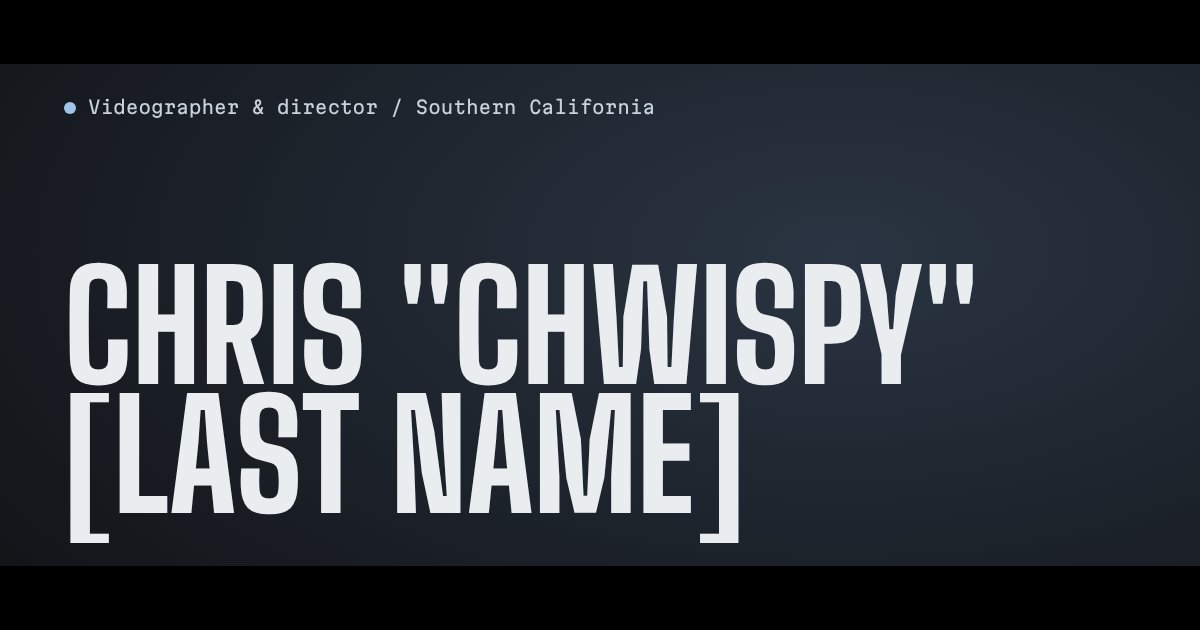
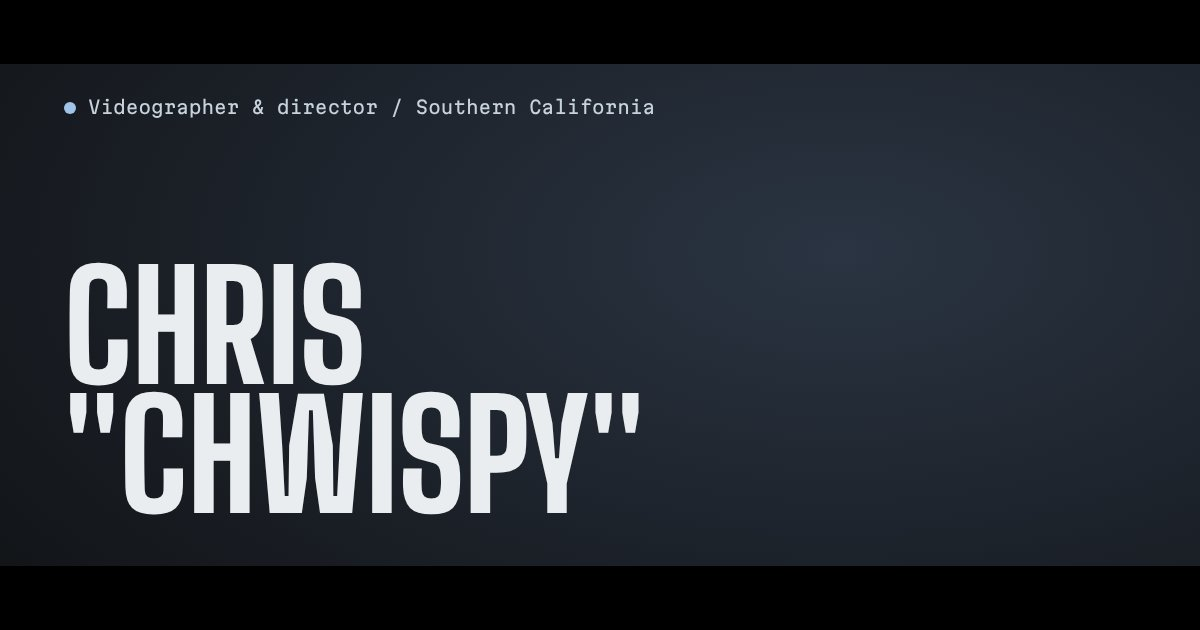
Drop the last-name placeholder from the wordmark and titles
The site now goes by Chris "Chwispy" everywhere: header and footer
wordmark, page titles, Open Graph tags, schema, copyright line and the
share image.

Claude-Session: https://claude.ai/code/session_01NEMUHEaAH6juJch6josBu8

Changed region(s): [[0.0308, 0.3921, 0.8325, 0.8746]]

diff --git a/index.html b/index.html
@@ -4,14 +4,14 @@
   <meta charset="utf-8">
   <meta name="viewport" content="width=device-width, initial-scale=1">
   <!-- SEO: swap [CITY] and [DOMAIN] everywhere (see README) -->
-  <title>Chris "Chwispy" [Last Name] | Videographer &amp; Director in [CITY], Southern California</title>
+  <title>Chris "Chwispy" | Videographer &amp; Director in [CITY], Southern California</title>
   <meta name="description" content="Commercials, brand films, event coverage and social content for brands across Southern California. Shot, edited and designed by one director. Book a call.">
   <link rel="canonical" href="https://[DOMAIN]/">
   <meta name="theme-color" content="#111316">
 
   <meta property="og:type" content="website">
-  <meta property="og:site_name" content="Chris &quot;Chwispy&quot; [Last Name]">
-  <meta property="og:title" content="Chris &quot;Chwispy&quot; [Last Name] | Videographer &amp; Director">
+  <meta property="og:site_name" content="Chris &quot;Chwispy&quot;">
+  <meta property="og:title" content="Chris &quot;Chwispy&quot; | Videographer &amp; Director">
   <meta property="og:description" content="Commercials, brand films, events and social content that make people stop scrolling.">
   <meta property="og:url" content="https://[DOMAIN]/">
   <meta property="og:image" content="https://[DOMAIN]/assets/img/og-image.jpg">
@@ -29,7 +29,7 @@
   {
     "@context": "https://schema.org",
     "@type": "ProfessionalService",
-    "name": "Chris \"Chwispy\" [Last Name]",
+    "name": "Chris \"Chwispy\"",
     "description": "Videographer and director making commercials, brand films, event coverage and social content.",
     "url": "https://[DOMAIN]/",
     "image": "https://[DOMAIN]/assets/img/og-image.jpg",
@@ -47,7 +47,7 @@
   <!-- ===== HEADER (same on every page; update aria-current per page) ===== -->
   <header class="site-header">
     <div class="wrap">
-      <a class="wordmark" href="index.html"><span class="wm-line">Chris <em>&ldquo;Chwispy&rdquo;</em></span> <span class="wm-line">[Last Name]</span></a>
+      <a class="wordmark" href="index.html">Chris <em>&ldquo;Chwispy&rdquo;</em></a>
       <nav aria-label="Main">
         <ul class="nav-links">
           <li><a href="work.html">Work</a></li>
@@ -317,7 +317,7 @@
   <footer class="site-footer">
     <div class="wrap">
       <div>
-        <a class="wordmark" href="index.html"><span class="wm-line">Chris <em>&ldquo;Chwispy&rdquo;</em></span> <span class="wm-line">[Last Name]</span></a>
+        <a class="wordmark" href="index.html">Chris <em>&ldquo;Chwispy&rdquo;</em></a>
         <p class="mono" style="margin-top:.75rem">Videographer and director in [CITY], Southern California</p>
       </div>
       <nav aria-label="Footer">
@@ -329,7 +329,7 @@
           <li><a href="https://www.instagram.com/staychwispy/" rel="me noopener" target="_blank">Instagram</a></li>
         </ul>
       </nav>
-      <p class="mono">&copy; <span data-year>2026</span> Chris [Last Name]</p>
+      <p class="mono">&copy; <span data-year>2026</span> Chris &ldquo;Chwispy&rdquo;</p>
     </div>
   </footer>
 

diff --git a/services.html b/services.html
@@ -3,14 +3,14 @@
 <head>
   <meta charset="utf-8">
   <meta name="viewport" content="width=device-width, initial-scale=1">
-  <title>Services &amp; Pricing | Chris &quot;Chwispy&quot; [Last Name], Videographer in [CITY]</title>
+  <title>Services &amp; Pricing | Chris &quot;Chwispy&quot;, Videographer in [CITY]</title>
   <meta name="description" content="Social content packs, commercials, brand films and event coverage with clear starting prices. Serving [CITY] and all of Southern California.">
   <link rel="canonical" href="https://[DOMAIN]/services.html">
   <meta name="theme-color" content="#111316">
 
   <meta property="og:type" content="website">
-  <meta property="og:site_name" content="Chris &quot;Chwispy&quot; [Last Name]">
-  <meta property="og:title" content="Services &amp; Pricing | Chris &quot;Chwispy&quot; [Last Name], Videographer in [CITY]">
+  <meta property="og:site_name" content="Chris &quot;Chwispy&quot;">
+  <meta property="og:title" content="Services &amp; Pricing | Chris &quot;Chwispy&quot;, Videographer in [CITY]">
   <meta property="og:description" content="Social content packs, commercials, brand films and event coverage with clear starting prices. Serving [CITY] and all of Southern California.">
   <meta property="og:url" content="https://[DOMAIN]/services.html">
   <meta property="og:image" content="https://[DOMAIN]/assets/img/og-image.jpg">
@@ -29,7 +29,7 @@
   <!-- ===== HEADER (same on every page; update aria-current per page) ===== -->
   <header class="site-header">
     <div class="wrap">
-      <a class="wordmark" href="index.html"><span class="wm-line">Chris <em>&ldquo;Chwispy&rdquo;</em></span> <span class="wm-line">[Last Name]</span></a>
+      <a class="wordmark" href="index.html">Chris <em>&ldquo;Chwispy&rdquo;</em></a>
       <nav aria-label="Main">
         <ul class="nav-links">
           <li><a href="work.html">Work</a></li>
@@ -227,7 +227,7 @@
   <footer class="site-footer">
     <div class="wrap">
       <div>
-        <a class="wordmark" href="index.html"><span class="wm-line">Chris <em>&ldquo;Chwispy&rdquo;</em></span> <span class="wm-line">[Last Name]</span></a>
+        <a class="wordmark" href="index.html">Chris <em>&ldquo;Chwispy&rdquo;</em></a>
         <p class="mono" style="margin-top:.75rem">Videographer and director in [CITY], Southern California</p>
       </div>
       <nav aria-label="Footer">
@@ -239,7 +239,7 @@
           <li><a href="https://www.instagram.com/staychwispy/" rel="me noopener" target="_blank">Instagram</a></li>
         </ul>
       </nav>
-      <p class="mono">&copy; <span data-year>2026</span> Chris [Last Name]</p>
+      <p class="mono">&copy; <span data-year>2026</span> Chris &ldquo;Chwispy&rdquo;</p>
     </div>
   </footer>
 

diff --git a/about.html b/about.html
@@ -3,14 +3,14 @@
 <head>
   <meta charset="utf-8">
   <meta name="viewport" content="width=device-width, initial-scale=1">
-  <title>About | Chris &quot;Chwispy&quot; [Last Name], Videographer &amp; Director</title>
+  <title>About | Chris &quot;Chwispy&quot;, Videographer &amp; Director</title>
   <meta name="description" content="Videographer, director and designer in [CITY]. In-house content lead, brand founder and former martial arts instructor who directs people well on camera.">
   <link rel="canonical" href="https://[DOMAIN]/about.html">
   <meta name="theme-color" content="#111316">
 
   <meta property="og:type" content="website">
-  <meta property="og:site_name" content="Chris &quot;Chwispy&quot; [Last Name]">
-  <meta property="og:title" content="About | Chris &quot;Chwispy&quot; [Last Name], Videographer &amp; Director">
+  <meta property="og:site_name" content="Chris &quot;Chwispy&quot;">
+  <meta property="og:title" content="About | Chris &quot;Chwispy&quot;, Videographer &amp; Director">
   <meta property="og:description" content="Videographer, director and designer in [CITY]. In-house content lead, brand founder and former martial arts instructor who directs people well on camera.">
   <meta property="og:url" content="https://[DOMAIN]/about.html">
   <meta property="og:image" content="https://[DOMAIN]/assets/img/og-image.jpg">
@@ -29,7 +29,7 @@
   <!-- ===== HEADER (same on every page; update aria-current per page) ===== -->
   <header class="site-header">
     <div class="wrap">
-      <a class="wordmark" href="index.html"><span class="wm-line">Chris <em>&ldquo;Chwispy&rdquo;</em></span> <span class="wm-line">[Last Name]</span></a>
+      <a class="wordmark" href="index.html">Chris <em>&ldquo;Chwispy&rdquo;</em></a>
       <nav aria-label="Main">
         <ul class="nav-links">
           <li><a href="work.html">Work</a></li>
@@ -140,7 +140,7 @@
   <footer class="site-footer">
     <div class="wrap">
       <div>
-        <a class="wordmark" href="index.html"><span class="wm-line">Chris <em>&ldquo;Chwispy&rdquo;</em></span> <span class="wm-line">[Last Name]</span></a>
+        <a class="wordmark" href="index.html">Chris <em>&ldquo;Chwispy&rdquo;</em></a>
         <p class="mono" style="margin-top:.75rem">Videographer and director in [CITY], Southern California</p>
       </div>
       <nav aria-label="Footer">
@@ -152,7 +152,7 @@
           <li><a href="https://www.instagram.com/staychwispy/" rel="me noopener" target="_blank">Instagram</a></li>
         </ul>
       </nav>
-      <p class="mono">&copy; <span data-year>2026</span> Chris [Last Name]</p>
+      <p class="mono">&copy; <span data-year>2026</span> Chris &ldquo;Chwispy&rdquo;</p>
     </div>
   </footer>
 

diff --git a/work.html b/work.html
@@ -3,14 +3,14 @@
 <head>
   <meta charset="utf-8">
   <meta name="viewport" content="width=device-width, initial-scale=1">
-  <title>Work | Chris &quot;Chwispy&quot; [Last Name], Videographer in [CITY]</title>
+  <title>Work | Chris &quot;Chwispy&quot;, Videographer in [CITY]</title>
   <meta name="description" content="Commercials, brand films, social content, events and music videos for brands across Southern California. Watch the work and see the results.">
   <link rel="canonical" href="https://[DOMAIN]/work.html">
   <meta name="theme-color" content="#111316">
 
   <meta property="og:type" content="website">
-  <meta property="og:site_name" content="Chris &quot;Chwispy&quot; [Last Name]">
-  <meta property="og:title" content="Work | Chris &quot;Chwispy&quot; [Last Name], Videographer in [CITY]">
+  <meta property="og:site_name" content="Chris &quot;Chwispy&quot;">
+  <meta property="og:title" content="Work | Chris &quot;Chwispy&quot;, Videographer in [CITY]">
   <meta property="og:description" content="Commercials, brand films, social content, events and music videos for brands across Southern California. Watch the work and see the results.">
   <meta property="og:url" content="https://[DOMAIN]/work.html">
   <meta property="og:image" content="https://[DOMAIN]/assets/img/og-image.jpg">
@@ -29,7 +29,7 @@
   <!-- ===== HEADER (same on every page; update aria-current per page) ===== -->
   <header class="site-header">
     <div class="wrap">
-      <a class="wordmark" href="index.html"><span class="wm-line">Chris <em>&ldquo;Chwispy&rdquo;</em></span> <span class="wm-line">[Last Name]</span></a>
+      <a class="wordmark" href="index.html">Chris <em>&ldquo;Chwispy&rdquo;</em></a>
       <nav aria-label="Main">
         <ul class="nav-links">
           <li><a href="work.html" aria-current="page">Work</a></li>
@@ -325,7 +325,7 @@
   <footer class="site-footer">
     <div class="wrap">
       <div>
-        <a class="wordmark" href="index.html"><span class="wm-line">Chris <em>&ldquo;Chwispy&rdquo;</em></span> <span class="wm-line">[Last Name]</span></a>
+        <a class="wordmark" href="index.html">Chris <em>&ldquo;Chwispy&rdquo;</em></a>
         <p class="mono" style="margin-top:.75rem">Videographer and director in [CITY], Southern California</p>
       </div>
       <nav aria-label="Footer">
@@ -337,7 +337,7 @@
           <li><a href="https://www.instagram.com/staychwispy/" rel="me noopener" target="_blank">Instagram</a></li>
         </ul>
       </nav>
-      <p class="mono">&copy; <span data-year>2026</span> Chris [Last Name]</p>
+      <p class="mono">&copy; <span data-year>2026</span> Chris &ldquo;Chwispy&rdquo;</p>
     </div>
   </footer>
 

diff --git a/contact.html b/contact.html
@@ -3,14 +3,14 @@
 <head>
   <meta charset="utf-8">
   <meta name="viewport" content="width=device-width, initial-scale=1">
-  <title>Book a Call | Chris &quot;Chwispy&quot; [Last Name], Videographer in [CITY]</title>
+  <title>Book a Call | Chris &quot;Chwispy&quot;, Videographer in [CITY]</title>
   <meta name="description" content="Book a 15-minute call or send a project inquiry. Commercials, brand films, social content and events across Southern California.">
   <link rel="canonical" href="https://[DOMAIN]/contact.html">
   <meta name="theme-color" content="#111316">
 
   <meta property="og:type" content="website">
-  <meta property="og:site_name" content="Chris &quot;Chwispy&quot; [Last Name]">
-  <meta property="og:title" content="Book a Call | Chris &quot;Chwispy&quot; [Last Name], Videographer in [CITY]">
+  <meta property="og:site_name" content="Chris &quot;Chwispy&quot;">
+  <meta property="og:title" content="Book a Call | Chris &quot;Chwispy&quot;, Videographer in [CITY]">
   <meta property="og:description" content="Book a 15-minute call or send a project inquiry. Commercials, brand films, social content and events across Southern California.">
   <meta property="og:url" content="https://[DOMAIN]/contact.html">
   <meta property="og:image" content="https://[DOMAIN]/assets/img/og-image.jpg">
@@ -29,7 +29,7 @@
   <!-- ===== HEADER (same on every page; update aria-current per page) ===== -->
   <header class="site-header">
     <div class="wrap">
-      <a class="wordmark" href="index.html"><span class="wm-line">Chris <em>&ldquo;Chwispy&rdquo;</em></span> <span class="wm-line">[Last Name]</span></a>
+      <a class="wordmark" href="index.html">Chris <em>&ldquo;Chwispy&rdquo;</em></a>
       <nav aria-label="Main">
         <ul class="nav-links">
           <li><a href="work.html">Work</a></li>
@@ -127,7 +127,7 @@
   <footer class="site-footer">
     <div class="wrap">
       <div>
-        <a class="wordmark" href="index.html"><span class="wm-line">Chris <em>&ldquo;Chwispy&rdquo;</em></span> <span class="wm-line">[Last Name]</span></a>
+        <a class="wordmark" href="index.html">Chris <em>&ldquo;Chwispy&rdquo;</em></a>
         <p class="mono" style="margin-top:.75rem">Videographer and director in [CITY], Southern California</p>
       </div>
       <nav aria-label="Footer">
@@ -139,7 +139,7 @@
           <li><a href="https://www.instagram.com/staychwispy/" rel="me noopener" target="_blank">Instagram</a></li>
         </ul>
       </nav>
-      <p class="mono">&copy; <span data-year>2026</span> Chris [Last Name]</p>
+      <p class="mono">&copy; <span data-year>2026</span> Chris &ldquo;Chwispy&rdquo;</p>
     </div>
   </footer>
 

diff --git a/tools/og-image.html b/tools/og-image.html
@@ -1,8 +1,8 @@
-<!doctype html><html><head><link rel="stylesheet" href="https://fonts.googleapis.com/css2?family=Big+Shoulders+Display:wght@800&family=Martian+Mono&display=swap"><style>
 <!-- Share image template. Edit the name below, open in Chrome at 1200x630, screenshot, save as assets/img/og-image.jpg. Or use any design tool at 1200x630. -->
+<!doctype html><html><head><link rel="stylesheet" href="https://fonts.googleapis.com/css2?family=Big+Shoulders+Display:wght@800&family=Martian+Mono&display=swap"><style>
 body{margin:0;width:1200px;height:630px;background:radial-gradient(90% 90% at 70% 40%,#2a3442,#111316);color:#e9edf0;font-family:'Big Shoulders Display';position:relative;overflow:hidden}
 .bar{position:absolute;left:0;right:0;height:64px;background:#000}.t{top:0}.b{bottom:0}
 h1{position:absolute;left:64px;bottom:110px;margin:0;font-size:150px;line-height:.86;text-transform:uppercase;font-weight:800}
 p{position:absolute;left:64px;top:96px;margin:0;font:400 18px 'Martian Mono',monospace;color:#c7d2dc}
 i{display:inline-block;width:12px;height:12px;border-radius:50%;background:#9fc4e8;margin-right:12px}
-</style></head><body><div class="bar t"></div><div class="bar b"></div><p><i></i>Videographer &amp; director / Southern California</p><h1>Chris "Chwispy"<br>[Last Name]</h1></body></html>
+</style></head><body><div class="bar t"></div><div class="bar b"></div><p><i></i>Videographer &amp; director / Southern California</p><h1>Chris<br>"Chwispy"</h1></body></html>

diff --git a/css/style.css b/css/style.css
@@ -1,5 +1,5 @@
 /* ==========================================================================
-   Chris "Chwispy" [Last Name] — Portfolio
+   Chris "Chwispy" — Portfolio
    One stylesheet for every page. Sections are in page order:
    1. Tokens   2. Base   3. Film layers (grain, reveals)   4. Header + menu
    5. Buttons + labels   6. Hero   7. Home sections   8. Work grid + lightbox
@@ -173,9 +173,8 @@ body { animation: cut-in 0.9s var(--ease) both; }
 .menu-toggle[aria-expanded="true"] span { transform: translateY(2.5px) rotate(45deg); }
 .menu-toggle[aria-expanded="true"] span::before { transform: translateY(-5px) rotate(-90deg); }
 
-/* Book a call stays visible at every width; on phones the wordmark stacks to make room. */
+/* Book a call stays visible at every width. */
 .site-header .header-cta { white-space: nowrap; flex: none; }
-.wordmark .wm-line { display: block; }
 @media (max-width: 55.99em) {
   .site-header .wrap { gap: 0.6rem; }
   .wordmark { font-size: 1.2rem; line-height: 0.95; }
@@ -184,7 +183,6 @@ body { animation: cut-in 0.9s var(--ease) both; }
 @media (min-width: 56em) {
   .nav-links { display: flex; }
   .menu-toggle { display: none; }
-  .wordmark .wm-line { display: inline; }
 }
 
 /* Full-screen mobile overlay */

diff --git a/README.md b/README.md
@@ -1,4 +1,4 @@
-# Chris "Chwispy" [Last Name] portfolio
+# Chris "Chwispy" portfolio
 
 A hand-coded portfolio site: plain HTML, CSS and vanilla JS. No build step, no framework, no page builder. Open any `.html` file in a text editor to change it.
 
@@ -23,7 +23,6 @@ Search the project for `[` to find every placeholder. Anything in square bracket
 ### Text (find and replace across all files)
 | Placeholder | Where | Notes |
 |---|---|---|
-| `[Last Name]` | Every page (wordmark, titles, footer), `tools/og-image.html` | |
 | `[EMAIL]` | `contact.html`, `index.html` schema | |
 | `[CITY]` | Every page (titles, descriptions, footer), `index.html` schema | Your home base, for local SEO |
 | `[DOMAIN]` | Every page `<head>`, `robots.txt`, `sitemap.xml` | e.g. `chwispy.com`, no `https://` |
